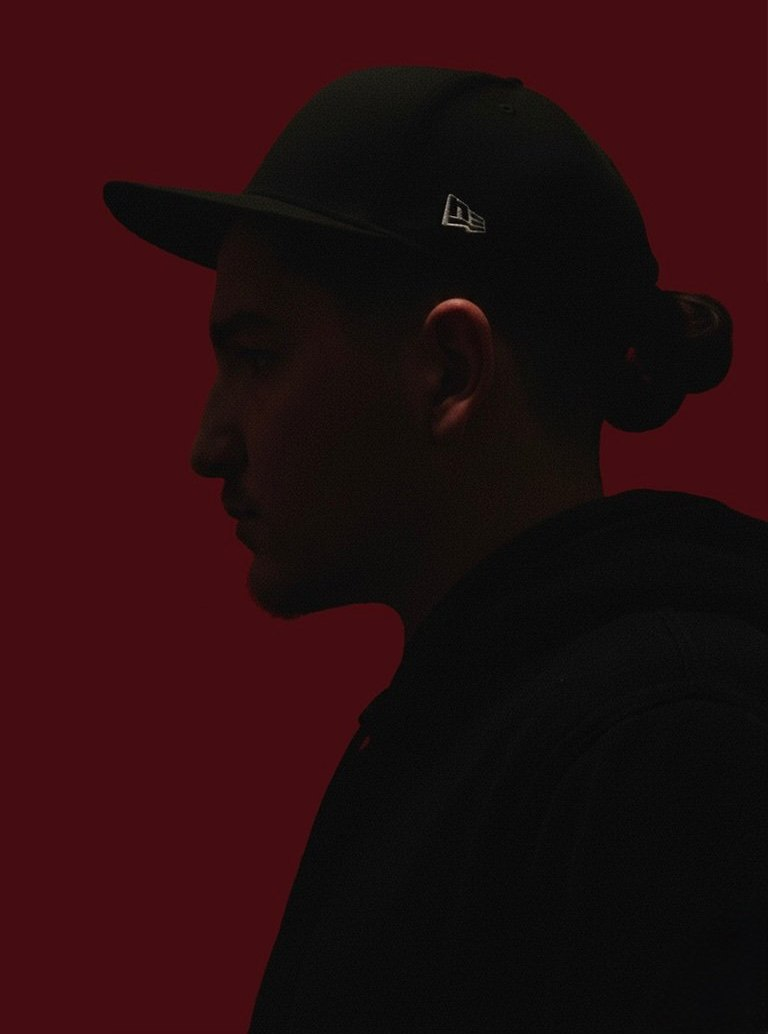
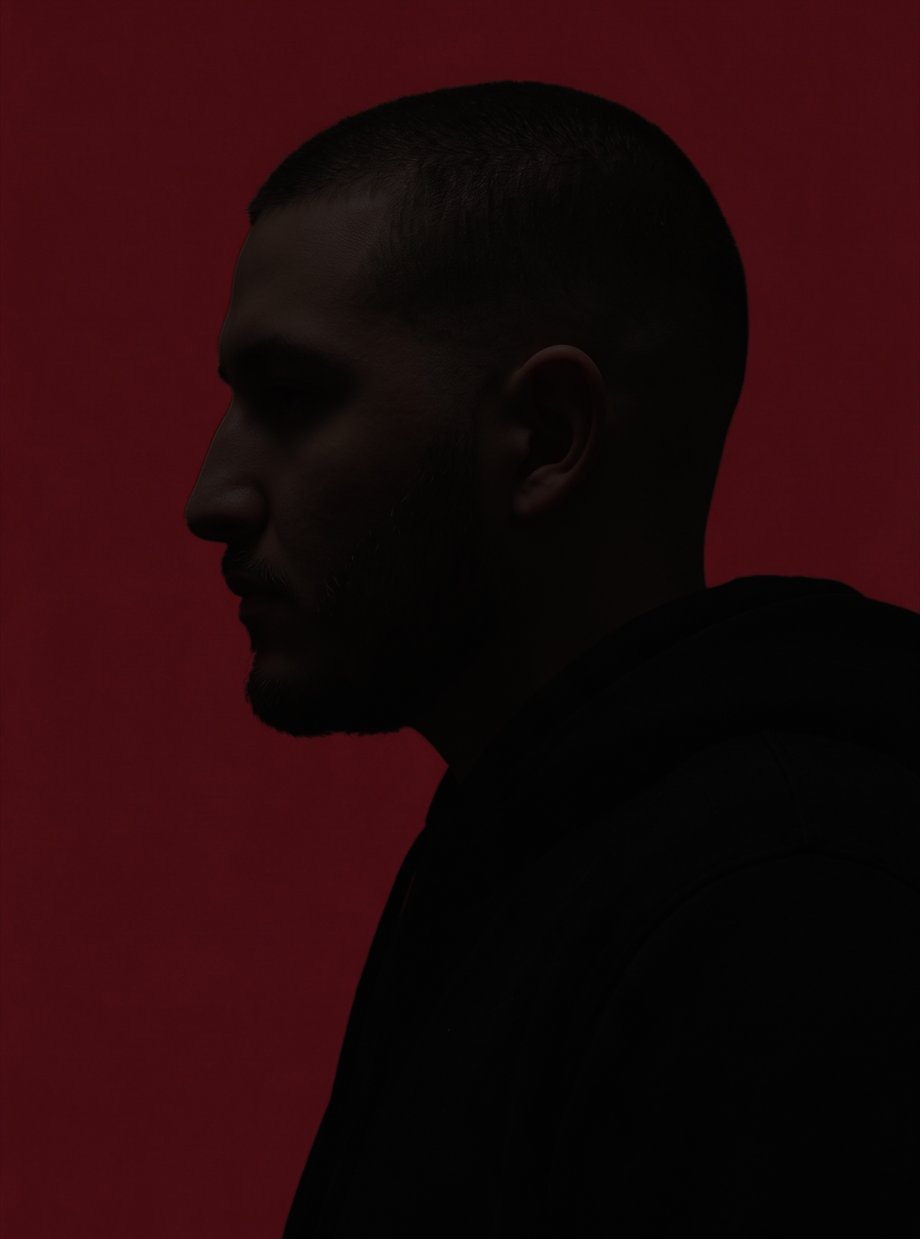
Nieuwe foto in Wie is Berie: zonder pet, buzzcut met mid fade, baard, neutrale blik, net zo donker als eerst

diff --git a/hub.html b/hub.html
@@ -383,7 +383,7 @@
             <a class="knop-secundair" href="over-mij.html">Lees verder →</a>
           </div>
           <div class="hub-wie-foto">
-            <img src="assets/berie-foto.jpg?v=72" width="768" height="1034" alt="Berie in profiel, met een pet, voor een donkerrode achtergrond" loading="lazy" decoding="async">
+            <img src="assets/berie-foto.jpg?v=73" width="920" height="1239" alt="Berie in profiel, in de schaduw voor een donkerrode achtergrond" loading="lazy" decoding="async">
           </div>
         </div>
       </section>
